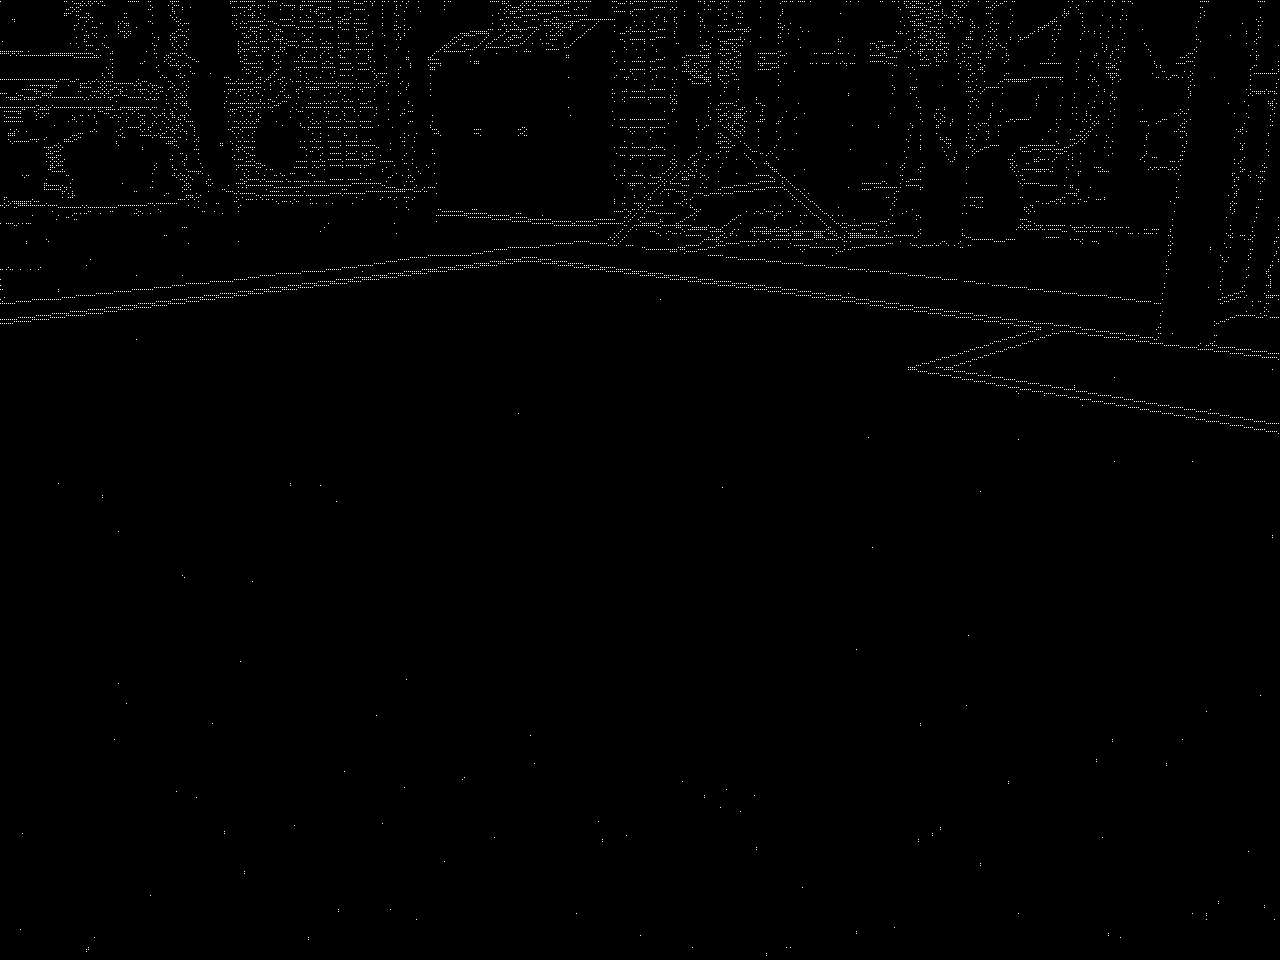
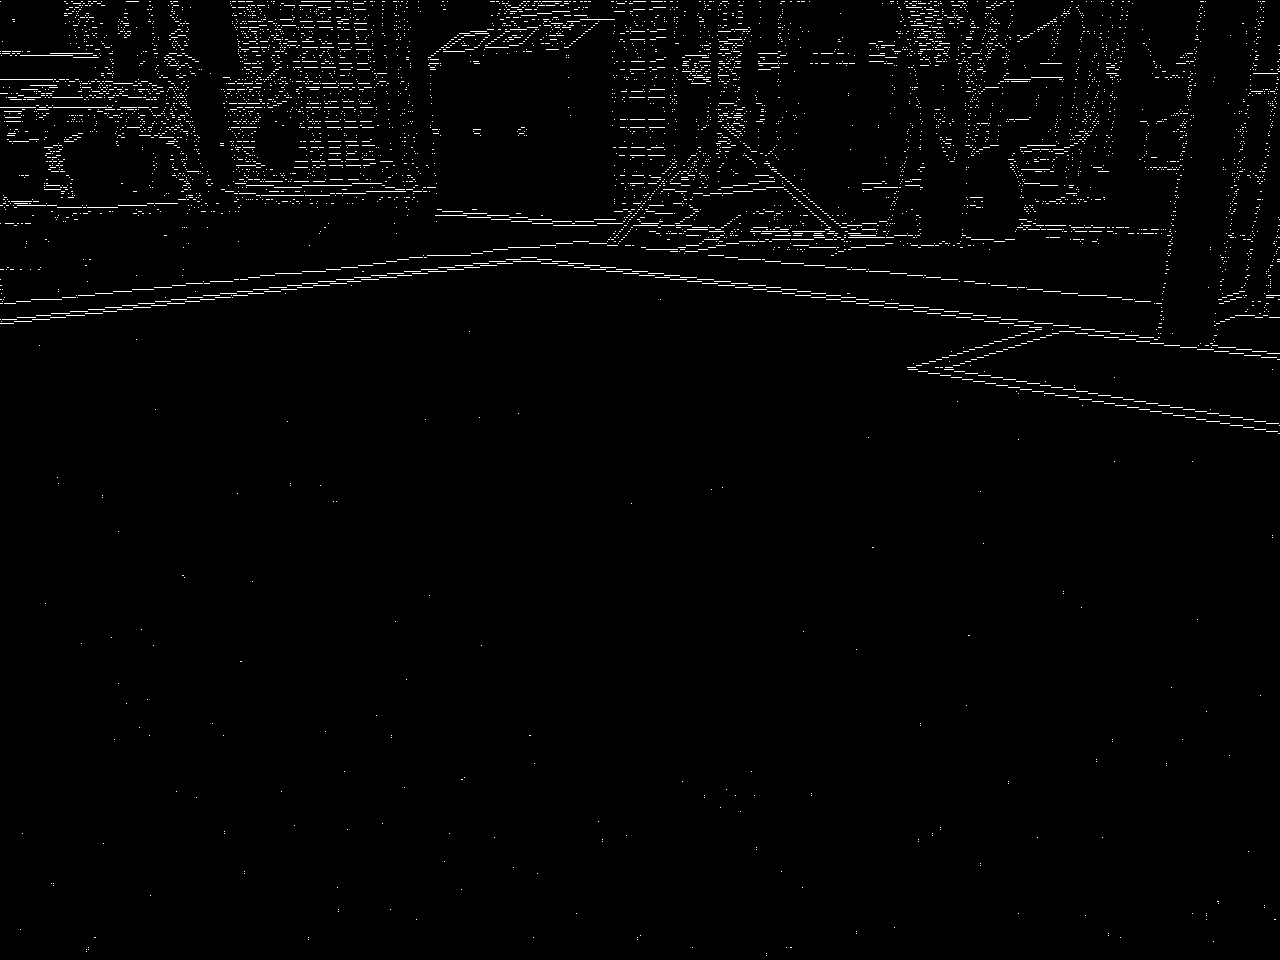
keine ahnung

diff --git a/main.cpp b/main.cpp
@@ -173,7 +173,7 @@ void edgeDetectionOnScanline(int column, cv::Mat &image,cv::Mat &imageEdges, cv:
 
 void edgeDetection(cv::Mat &image, cv::Mat &imageEdges, cv::Mat &imageLines, int t_edge, std::vector<cv::Vec2i> &edgePointer) {
   //+2 cause of downsampling
-  for (int column=0;column<image.size().width; column+=2){
+  for (int column=0;column<image.size().width; column+=1){ //SCANLINE SUBSAMPLING +=2
     edgePointer.push_back(cv::Vec2i(0,column));
     edgeDetectionOnScanline(column, image, imageEdges, imageLines, t_edge, edgePointer);
     edgePointer.push_back(cv::Vec2i(image.size().height,column));
@@ -243,10 +243,10 @@ void classifyRegions(cv::Mat &image, cv::Mat &imageRegions, std::vector<cv::Vec2
     //later on this is to optimize
     //do not save current and previous x temporally
     //current_column = edgePointer[i][1];
-    current_x = (edgePointer)[i][0];
-    next_x = (edgePointer)[i+1][0];
-    current_column = (edgePointer)[i][1];
-    next_column = (edgePointer)[i+1][1];
+    current_x = edgePointer[i][0];
+    next_x = edgePointer[i+1][0];
+    current_column = edgePointer[i][1];
+    next_column = edgePointer[i+1][1];
     if((next_column-current_column)==0){
       diff = next_x-current_x;
       gap = diff/6; //TODO: magic number
@@ -256,10 +256,9 @@ void classifyRegions(cv::Mat &image, cv::Mat &imageRegions, std::vector<cv::Vec2
       //cout << median_Y << "," << median_Cb << "," << median_Cr << endl;
       if(fieldCheck(median_Y,median_Cb,median_Cr)){
         //cout << current_x << "," << next_x << "," << current_column << "," << next_column << endl;
-        setRegion(imageRegions, current_x, next_x, current_column, 1); //TDO magic snort snort
+        setRegion(imageRegions, current_x, next_x, current_column, 1); //TODO magic snort snort
       }
     }
-
   }
 }
 
